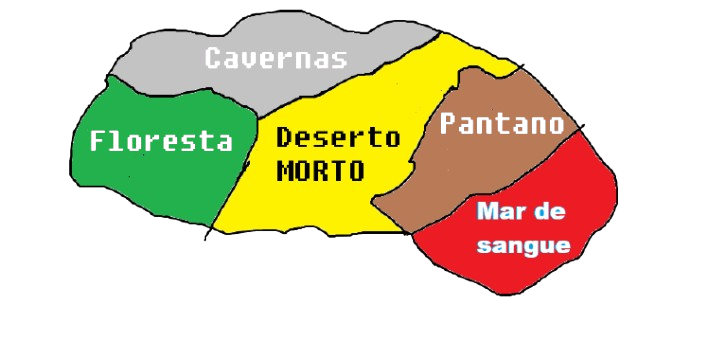
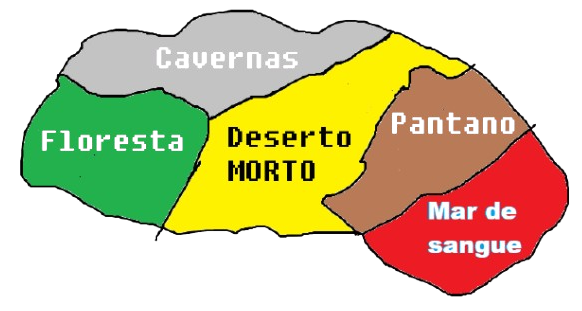
feat: Implement initial UI for battle, shop, inventory, quest, and map screens with new assets and styling.

diff --git a/src/telas/inventario/inventario.html b/src/telas/inventario/inventario.html
@@ -45,8 +45,8 @@
         </div>
     </div>
     <div id="Menu-Botoes">
-        <button id="btn-criaçao" class="btn-lateral" onclick="mudarTela('tela-gears')">Gears</button>
-        <button id="btn-criaçao" class="btn-lateral" onclick="mudarTela('tela-skills-buffs-debuffs')">Skills</button>
-        <button id="btn-criaçao" class="btn-lateral" onclick="mudarTela('tela-jornada')">Voltar</button>
+        <button id="btn-criaçao" class="btn-lateral button-style" onclick="mudarTela('tela-gears')">Gears</button>
+        <button id="btn-criaçao" class="btn-lateral button-style" onclick="mudarTela('tela-skills-buffs-debuffs')">Skills</button>
+        <button id="btn-criaçao" class="btn-lateral button-style" onclick="mudarTela('tela-jornada')">Voltar</button>
     </div>
 </div>

diff --git a/src/telas/loja/loja.html b/src/telas/loja/loja.html
@@ -11,8 +11,8 @@
     <div id="box-inventario" class="box"><h3>inventario</h3></div>
     <div id="box-detalhes" class="box"><div id="nav-detalhe" class="nome-nav"><h2 class="h2-refino">Detalhes</h2></div></div>
     <div id="box-botoes" class="">
-        <button onclick="">Comprar</button>
-        <button onclick="">Vender</button>
-        <button onclick="mudarTela('tela-jornada')">Voltar</button>
+        <button class="button-style" onclick="">Comprar</button>
+        <button class="button-style" onclick="">Vender</button>
+        <button class="button-style" onclick="mudarTela('tela-jornada')">Voltar</button>
     </div>
 </div>

diff --git a/src/telas/mapa/mapa.css b/src/telas/mapa/mapa.css
@@ -1,1 +1,15 @@
 /* Tela de Mapa CSS */
+
+#tela-mapa {
+    width: 90%;
+    height: 90%;
+    background-image: url('/imagens/cenarios/Mapa-preview.png');
+    background-size: cover;
+    background-position: center;
+    border: 2px solid #d1b87a;
+    box-sizing: border-box;
+    padding: 20px;
+    position: relative;
+    display: block;
+    gap: 10px;
+}

diff --git a/src/telas/missao/missao.html b/src/telas/missao/missao.html
@@ -1,7 +1,7 @@
 <div id="tela-missao" class="tela oculto">
   <div class="top-missoes">
     <h2>Missões</h2>
-    <button onclick="mudarTela('tela-jornada')">Voltar</button>
+    <button class="button-style" onclick="mudarTela('tela-jornada')">Voltar</button>
   </div>
   <div id="missao1" class="quests">1</div>
   <div id="missao2" class="quests">2</div>

diff --git a/src/telas/batalha/batalha.css b/src/telas/batalha/batalha.css
@@ -4,7 +4,7 @@
     width: 90%;
     height: 85%;
     justify-content: center;
-    background-image: url('/imagens/monstros/fundo floresta.png');
+    background-image: url('/imagens/cenarios/fundo floresta.png');
     background-size: cover;
     background-position: center;
     background-repeat: no-repeat;

diff --git a/src/telas/mapa/mapa.html b/src/telas/mapa/mapa.html
@@ -2,5 +2,5 @@
   <div>
     <h2>Mapa</h2>
   </div>
-  <button onclick="mudarTela('tela-jornada')">Voltar</button>
+  <button class="button-style" onclick="mudarTela('tela-jornada')">Voltar</button>
 </div>
